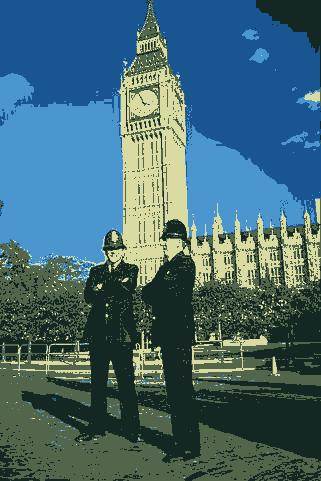
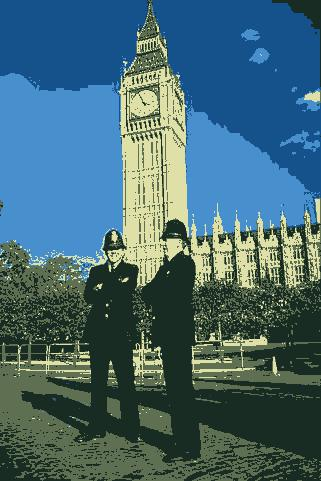
Recompressed

diff --git a/task2/task1.py b/task2/task1.py
@@ -78,7 +78,7 @@ if __name__ == '__main__':
     input_image = np.asarray(Image.open(image_name))
 
     comp_db = compress_original(input_image, 5, 10, 1)
-    comp_ch = compress_original(input_image, 8, 10, 1)
+    comp_ch = compress_original(input_image, 7, 10, 1)
 
     Image.fromarray(comp_db).save('db_compressed_' + image_name)
     Image.fromarray(comp_ch).save('ch_compressed_' + image_name)
